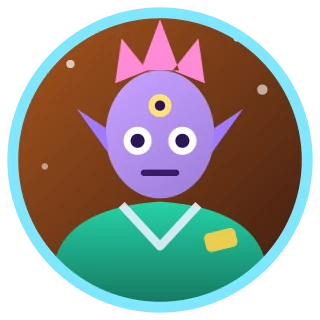
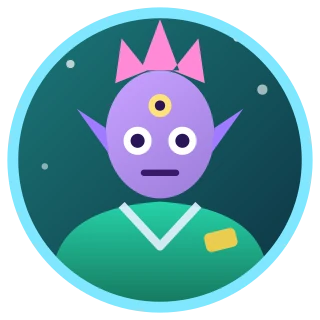
Add files via upload

diff --git a/index.html b/index.html
@@ -79,25 +79,13 @@ v.addEventListener("play",sync);v.addEventListener("pause",sync);sync()})();
 </div>
 
 <div class="wrap">
-<section aria-labelledby="univers">
-<div class="head"><h2 id="univers">L’univers de Colony 2060</h2></div>
-<p style="max-width:36em;margin:0">NOA, l'équipage, les bâtiments et les gisements : tout est dessiné pour le jeu, du laboratoire à la fusée.</p>
-<div class="mosaic">
-<div class="tile big"><img src="/assets/art/noa.webp" width="320" height="320" alt="NOA, l’assistante de la colonie" loading="lazy" decoding="async"></div>
-<div class="tile t2"><img src="/assets/art/avatar_0.webp" width="320" height="320" alt="" loading="lazy" decoding="async"></div><div class="tile t1"><img src="/assets/art/b_lab.webp" width="320" height="320" alt="" loading="lazy" decoding="async"></div><div class="tile t3"><img src="/assets/art/avatar_9.webp" width="320" height="320" alt="" loading="lazy" decoding="async"></div><div class="tile t1"><img src="/assets/art/chest.webp" width="320" height="320" alt="" loading="lazy" decoding="async"></div><div class="tile t3"><img src="/assets/art/b_radar.webp" width="320" height="320" alt="" loading="lazy" decoding="async"></div><div class="tile t1"><img src="/assets/art/avatar_5.webp" width="320" height="320" alt="" loading="lazy" decoding="async"></div><div class="tile t2"><img src="/assets/art/b_market.webp" width="320" height="320" alt="" loading="lazy" decoding="async"></div><div class="tile t4"><img src="/assets/art/avatar_11.webp" width="320" height="320" alt="" loading="lazy" decoding="async"></div><div class="tile t1"><img src="/assets/art/avatar_8.webp" width="320" height="320" alt="" loading="lazy" decoding="async"></div><div class="tile t3"><img src="/assets/art/b_greenhouse.webp" width="320" height="320" alt="" loading="lazy" decoding="async"></div><div class="tile t2"><img src="/assets/art/rocket.webp" width="320" height="320" alt="" loading="lazy" decoding="async"></div><div class="tile t3"><img src="/assets/art/avatar_3.webp" width="320" height="320" alt="" loading="lazy" decoding="async"></div><div class="tile t1"><img src="/assets/art/b_bank.webp" width="320" height="320" alt="" loading="lazy" decoding="async"></div><div class="tile t2"><img src="/assets/art/camp.webp" width="320" height="320" alt="" loading="lazy" decoding="async"></div>
-</div>
-<p class="credit">Illustrations extraites de Colony 2060.</p>
-</section>
-</div>
-
-<div class="wrap">
 <section id="studio" class="studio">
 <h2>Le studio</h2>
 <div>
 <p>Nous faisons des jeux mobiles qui se jouent en quelques minutes ou en longues sessions. Chaque jeu part d'une idée différente : Colony 2060 est un jeu de construction et d'exploration, les suivants seront très différents.</p>
 <p>Aucun compte à créer : votre progression reste sur votre téléphone. Les détails sont dans la politique de confidentialité.</p>
 <dl class="facts">
-<div><dt>Éditeur</dt><dd>Virieux Consulting (SASU)</dd></div>
+<div><dt>Éditeur</dt><dd>Virieux Consulting</dd></div>
 <div><dt>Écrire au studio</dt><dd><a href="mailto:contact@pioneagames.com">contact@pioneagames.com</a></dd></div>
 </dl>
 </div>

diff --git a/en/index.html b/en/index.html
@@ -79,25 +79,13 @@ v.addEventListener("play",sync);v.addEventListener("pause",sync);sync()})();
 </div>
 
 <div class="wrap">
-<section aria-labelledby="univers">
-<div class="head"><h2 id="univers">The world of Colony 2060</h2></div>
-<p style="max-width:36em;margin:0">NOA, the crew, the buildings and the deposits: everything is drawn for the game, from the lab to the rocket.</p>
-<div class="mosaic">
-<div class="tile big"><img src="/assets/art/noa.webp" width="320" height="320" alt="NOA, the colony assistant" loading="lazy" decoding="async"></div>
-<div class="tile t2"><img src="/assets/art/avatar_0.webp" width="320" height="320" alt="" loading="lazy" decoding="async"></div><div class="tile t1"><img src="/assets/art/b_lab.webp" width="320" height="320" alt="" loading="lazy" decoding="async"></div><div class="tile t3"><img src="/assets/art/avatar_9.webp" width="320" height="320" alt="" loading="lazy" decoding="async"></div><div class="tile t1"><img src="/assets/art/chest.webp" width="320" height="320" alt="" loading="lazy" decoding="async"></div><div class="tile t3"><img src="/assets/art/b_radar.webp" width="320" height="320" alt="" loading="lazy" decoding="async"></div><div class="tile t1"><img src="/assets/art/avatar_5.webp" width="320" height="320" alt="" loading="lazy" decoding="async"></div><div class="tile t2"><img src="/assets/art/b_market.webp" width="320" height="320" alt="" loading="lazy" decoding="async"></div><div class="tile t4"><img src="/assets/art/avatar_11.webp" width="320" height="320" alt="" loading="lazy" decoding="async"></div><div class="tile t1"><img src="/assets/art/avatar_8.webp" width="320" height="320" alt="" loading="lazy" decoding="async"></div><div class="tile t3"><img src="/assets/art/b_greenhouse.webp" width="320" height="320" alt="" loading="lazy" decoding="async"></div><div class="tile t2"><img src="/assets/art/rocket.webp" width="320" height="320" alt="" loading="lazy" decoding="async"></div><div class="tile t3"><img src="/assets/art/avatar_3.webp" width="320" height="320" alt="" loading="lazy" decoding="async"></div><div class="tile t1"><img src="/assets/art/b_bank.webp" width="320" height="320" alt="" loading="lazy" decoding="async"></div><div class="tile t2"><img src="/assets/art/camp.webp" width="320" height="320" alt="" loading="lazy" decoding="async"></div>
-</div>
-<p class="credit">Artwork from Colony 2060.</p>
-</section>
-</div>
-
-<div class="wrap">
 <section id="studio" class="studio">
 <h2>The studio</h2>
 <div>
 <p>We make mobile games you can play for a few minutes or for long sessions. Every game starts from a different idea: Colony 2060 is about building and exploring, and the next ones will be very different.</p>
 <p>No account to create: your progress stays on your phone. Details are in the privacy policy.</p>
 <dl class="facts">
-<div><dt>Publisher</dt><dd>Virieux Consulting (SASU)</dd></div>
+<div><dt>Publisher</dt><dd>Virieux Consulting</dd></div>
 <div><dt>Write to the studio</dt><dd><a href="mailto:contact@pioneagames.com">contact@pioneagames.com</a></dd></div>
 </dl>
 </div>

diff --git a/colony-2060.html b/colony-2060.html
@@ -60,6 +60,18 @@
 </div>
 
 <div class="wrap">
+<section aria-labelledby="univers">
+<div class="head"><h2 id="univers">L’univers de Colony 2060</h2></div>
+<p style="max-width:36em;margin:0">NOA, l'équipage, les bâtiments et les gisements : tout est dessiné pour le jeu, du laboratoire à la fusée.</p>
+<div class="mosaic">
+<div class="tile big"><img src="/assets/art/noa.webp" width="320" height="320" alt="NOA, l’assistante de la colonie" loading="lazy" decoding="async"></div>
+<div class="tile t2"><img src="/assets/art/avatar_0.webp" width="320" height="320" alt="" loading="lazy" decoding="async"></div><div class="tile t3"><img src="/assets/art/b_lab.webp" width="320" height="320" alt="" loading="lazy" decoding="async"></div><div class="tile t3"><img src="/assets/art/avatar_9.webp" width="320" height="320" alt="" loading="lazy" decoding="async"></div><div class="tile t4"><img src="/assets/art/chest.webp" width="320" height="320" alt="" loading="lazy" decoding="async"></div><div class="tile t3"><img src="/assets/art/b_radar.webp" width="320" height="320" alt="" loading="lazy" decoding="async"></div><div class="tile t1"><img src="/assets/art/avatar_5.webp" width="320" height="320" alt="" loading="lazy" decoding="async"></div><div class="tile t2"><img src="/assets/art/b_market.webp" width="320" height="320" alt="" loading="lazy" decoding="async"></div><div class="tile t4"><img src="/assets/art/avatar_11.webp" width="320" height="320" alt="" loading="lazy" decoding="async"></div><div class="tile t1"><img src="/assets/art/avatar_8.webp" width="320" height="320" alt="" loading="lazy" decoding="async"></div><div class="tile t3"><img src="/assets/art/b_greenhouse.webp" width="320" height="320" alt="" loading="lazy" decoding="async"></div><div class="tile t2"><img src="/assets/art/rocket.webp" width="320" height="320" alt="" loading="lazy" decoding="async"></div><div class="tile t3"><img src="/assets/art/avatar_3.webp" width="320" height="320" alt="" loading="lazy" decoding="async"></div><div class="tile t2"><img src="/assets/art/b_bank.webp" width="320" height="320" alt="" loading="lazy" decoding="async"></div><div class="tile t2"><img src="/assets/art/camp.webp" width="320" height="320" alt="" loading="lazy" decoding="async"></div>
+</div>
+<p class="credit">Illustrations extraites de Colony 2060.</p>
+</section>
+</div>
+
+<div class="wrap">
 <section>
 <h2 style="margin-bottom:22px">Informations</h2>
 <table class="info"><tr><td>Éditeur</td><td>Pionea Games (Virieux Consulting)</td></tr><tr><td>Plateforme</td><td>Android</td></tr><tr><td>Langues</td><td>16</td></tr><tr><td>Assistance</td><td><a href="mailto:contact@pioneagames.com">contact@pioneagames.com</a></td></tr><tr><td>Confidentialité</td><td><a href="/confidentialite.html">Politique de confidentialité</a></td></tr></table>

diff --git a/en/colony-2060.html b/en/colony-2060.html
@@ -60,6 +60,18 @@
 </div>
 
 <div class="wrap">
+<section aria-labelledby="univers">
+<div class="head"><h2 id="univers">The world of Colony 2060</h2></div>
+<p style="max-width:36em;margin:0">NOA, the crew, the buildings and the deposits: everything is drawn for the game, from the lab to the rocket.</p>
+<div class="mosaic">
+<div class="tile big"><img src="/assets/art/noa.webp" width="320" height="320" alt="NOA, the colony assistant" loading="lazy" decoding="async"></div>
+<div class="tile t2"><img src="/assets/art/avatar_0.webp" width="320" height="320" alt="" loading="lazy" decoding="async"></div><div class="tile t3"><img src="/assets/art/b_lab.webp" width="320" height="320" alt="" loading="lazy" decoding="async"></div><div class="tile t3"><img src="/assets/art/avatar_9.webp" width="320" height="320" alt="" loading="lazy" decoding="async"></div><div class="tile t4"><img src="/assets/art/chest.webp" width="320" height="320" alt="" loading="lazy" decoding="async"></div><div class="tile t3"><img src="/assets/art/b_radar.webp" width="320" height="320" alt="" loading="lazy" decoding="async"></div><div class="tile t1"><img src="/assets/art/avatar_5.webp" width="320" height="320" alt="" loading="lazy" decoding="async"></div><div class="tile t2"><img src="/assets/art/b_market.webp" width="320" height="320" alt="" loading="lazy" decoding="async"></div><div class="tile t4"><img src="/assets/art/avatar_11.webp" width="320" height="320" alt="" loading="lazy" decoding="async"></div><div class="tile t1"><img src="/assets/art/avatar_8.webp" width="320" height="320" alt="" loading="lazy" decoding="async"></div><div class="tile t3"><img src="/assets/art/b_greenhouse.webp" width="320" height="320" alt="" loading="lazy" decoding="async"></div><div class="tile t2"><img src="/assets/art/rocket.webp" width="320" height="320" alt="" loading="lazy" decoding="async"></div><div class="tile t3"><img src="/assets/art/avatar_3.webp" width="320" height="320" alt="" loading="lazy" decoding="async"></div><div class="tile t2"><img src="/assets/art/b_bank.webp" width="320" height="320" alt="" loading="lazy" decoding="async"></div><div class="tile t2"><img src="/assets/art/camp.webp" width="320" height="320" alt="" loading="lazy" decoding="async"></div>
+</div>
+<p class="credit">Artwork from Colony 2060.</p>
+</section>
+</div>
+
+<div class="wrap">
 <section>
 <h2 style="margin-bottom:22px">Information</h2>
 <table class="info"><tr><td>Publisher</td><td>Pionea Games (Virieux Consulting)</td></tr><tr><td>Platform</td><td>Android</td></tr><tr><td>Languages</td><td>16</td></tr><tr><td>Support</td><td><a href="mailto:contact@pioneagames.com">contact@pioneagames.com</a></td></tr><tr><td>Privacy</td><td><a href="/en/privacy.html">Privacy policy</a></td></tr></table>

diff --git a/confidentialite.html b/confidentialite.html
@@ -31,10 +31,10 @@
 <main id="main">
 <div class="wrap"><div class="prose">
 <h1 class="page">Politique de confidentialité</h1>
-<p class="muted">Dernière mise à jour : 16 novembre 2026. Applicable au site pioneagames.com et au jeu « Colony 2060 : Space Clicker ».</p>
+<p class="muted">Dernière mise à jour : 17 novembre 2026. Applicable au site pioneagames.com et au jeu « Colony 2060 : Space Clicker ».</p>
 
 <h2>1. Qui est responsable de vos données ?</h2>
-<p>Virieux Consulting (SASU), 27 Résidence de Tourvoie, 94260 Fresnes, France, exploitant la marque Pionea Games. Contact : <a href="mailto:contact@pioneagames.com">contact@pioneagames.com</a>.</p>
+<p>Virieux Consulting, exploitant la marque Pionea Games. Contact : <a href="mailto:contact@pioneagames.com">contact@pioneagames.com</a>.</p>
 
 <h2>2. Ce que nous ne collectons pas</h2>
 <p>Le jeu ne demande ni compte, ni e-mail, ni nom, ni accès à vos contacts, photos ou position. Votre progression est enregistrée <strong>uniquement sur votre appareil</strong>. Le pseudo que vous saisissez dans le jeu reste sur votre appareil.</p>

diff --git a/en/privacy.html b/en/privacy.html
@@ -31,10 +31,10 @@
 <main id="main">
 <div class="wrap"><div class="prose">
 <h1 class="page">Privacy policy</h1>
-<p class="muted">Last updated: November 16, 2026. Applies to pioneagames.com and the game "Colony 2060: Space Clicker".</p>
+<p class="muted">Last updated: November 17, 2026. Applies to pioneagames.com and the game "Colony 2060: Space Clicker".</p>
 
 <h2>1. Who is responsible for your data?</h2>
-<p>Virieux Consulting (SASU), 27 Résidence de Tourvoie, 94260 Fresnes, France, operating the Pionea Games brand. Contact: <a href="mailto:contact@pioneagames.com">contact@pioneagames.com</a>.</p>
+<p>Virieux Consulting, operating the Pionea Games brand. Contact: <a href="mailto:contact@pioneagames.com">contact@pioneagames.com</a>.</p>
 
 <h2>2. What we do not collect</h2>
 <p>The game does not ask for an account, e-mail, name, or access to your contacts, photos or location. Your progress is saved <strong>only on your device</strong>. The nickname you enter in the game stays on your device.</p>

diff --git a/en/legal.html b/en/legal.html
@@ -31,10 +31,11 @@
 <main id="main">
 <div class="wrap"><div class="prose">
 <h1 class="page">Legal notice</h1>
-<p class="muted">Last updated: November 16, 2026</p>
+<p class="muted">Last updated: November 17, 2026</p>
 <h2>Publisher</h2>
 <table>
-<tr><td>Company</td><td>Virieux Consulting (SASU, French single-member simplified joint-stock company)</td></tr>
+<tr><td>Company</td><td>Virieux Consulting</td></tr>
+<tr><td>Legal form</td><td>French single-member simplified joint-stock company (SASU)</td></tr>
 <tr><td>Trade name</td><td>Pionea Games</td></tr>
 <tr><td>Registered office</td><td>27 Résidence de Tourvoie, 94260 Fresnes, France</td></tr>
 <tr><td>SIREN</td><td>993 219 138 (SIRET siège : 993 219 138 00019)</td></tr>

diff --git a/mentions-legales.html b/mentions-legales.html
@@ -31,10 +31,11 @@
 <main id="main">
 <div class="wrap"><div class="prose">
 <h1 class="page">Mentions légales</h1>
-<p class="muted">Dernière mise à jour : 16 novembre 2026</p>
+<p class="muted">Dernière mise à jour : 17 novembre 2026</p>
 <h2>Éditeur du site</h2>
 <table>
-<tr><td>Raison sociale</td><td>Virieux Consulting (SASU)</td></tr>
+<tr><td>Raison sociale</td><td>Virieux Consulting</td></tr>
+<tr><td>Forme juridique</td><td>Société par actions simplifiée unipersonnelle (SASU)</td></tr>
 <tr><td>Nom commercial</td><td>Pionea Games</td></tr>
 <tr><td>Siège social</td><td>27 Résidence de Tourvoie, 94260 Fresnes, France</td></tr>
 <tr><td>SIREN</td><td>993 219 138 (SIRET siège : 993 219 138 00019)</td></tr>

diff --git a/contact.html b/contact.html
@@ -36,8 +36,7 @@
 <a class="mail" href="mailto:contact@pioneagames.com">contact@pioneagames.com</a>
 <p class="muted">Nous répondons en général sous quelques jours. En cas de bug, indiquez le modèle de votre téléphone et la version d'Android.</p>
 <dl class="facts" style="max-width:640px">
-<div><dt>Société</dt><dd>Virieux Consulting (SASU)</dd></div>
-<div><dt>Adresse</dt><dd>27 Résidence de Tourvoie, 94260 Fresnes, France</dd></div>
+<div><dt>Société</dt><dd>Virieux Consulting</dd></div>
 </dl>
 </section></div>
 </main>

diff --git a/en/contact.html b/en/contact.html
@@ -36,8 +36,7 @@
 <a class="mail" href="mailto:contact@pioneagames.com">contact@pioneagames.com</a>
 <p class="muted">We usually reply within a few days. For a bug, include your phone model and Android version.</p>
 <dl class="facts" style="max-width:640px">
-<div><dt>Company</dt><dd>Virieux Consulting (SASU)</dd></div>
-<div><dt>Address</dt><dd>27 Résidence de Tourvoie, 94260 Fresnes, France</dd></div>
+<div><dt>Company</dt><dd>Virieux Consulting</dd></div>
 </dl>
 </section></div>
 </main>
